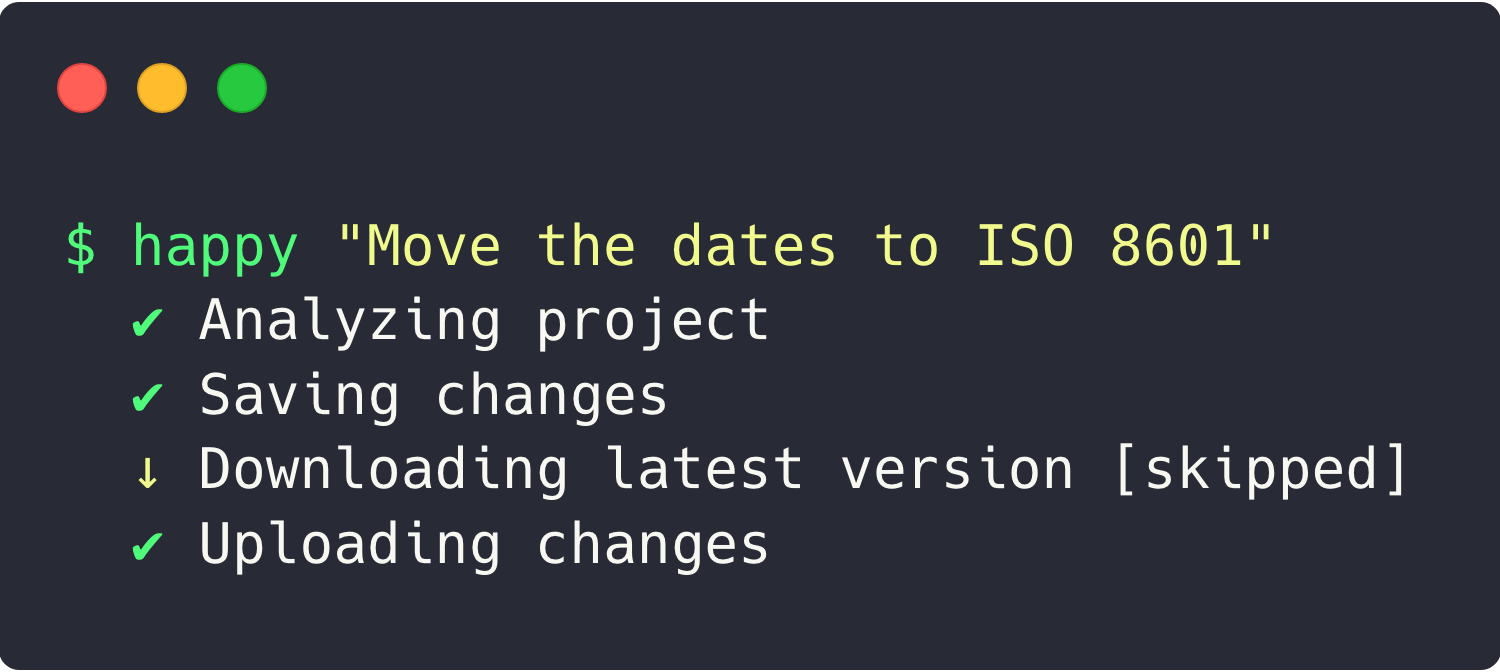
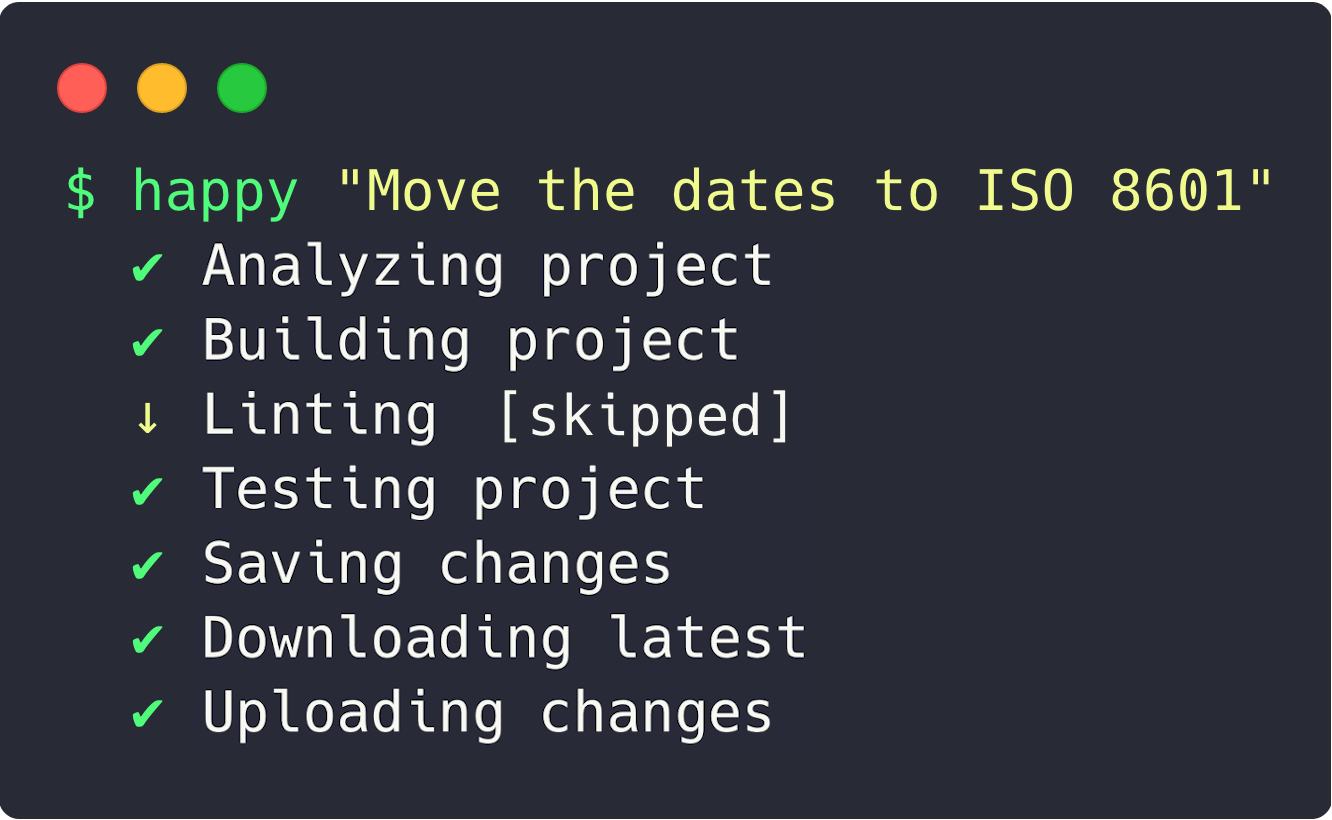
Updated image

diff --git a/index.js b/index.js
@@ -27,16 +27,22 @@ const cli = meow(
 
   Examples
     $ happy
-    ✔ Adding files
-    ✔ Committing changes
-    ✔ Pulling from master
-    ✔ Pushing
+    ✔ Analyzing project
+    ✔ Building project
+    ✔ Linting
+    ✔ Testing project
+    ✔ Saving changes
+    ✔ Downloading latest
+    ✔ Uploading changes
 
     $ happy "Move the dates to ISO 8601"
-    ✔ Adding files
-    ✔ Committing changes
-    ✔ Pulling from master
-    ✔ Pushing
+    ✔ Analyzing project
+    ✔ Building project
+    ✔ Linting
+    ✔ Testing project
+    ✔ Saving changes
+    ✔ Downloading latest
+    ✔ Uploading changes
 `,
   {
     flags: {

diff --git a/src/index.js b/src/index.js
@@ -5,7 +5,6 @@ const publish = require("./publish.js");
 const pull = require("./pull.js");
 const push = require("./push.js");
 const save = require("./save.js");
-const start = require("./start.js");
 const test = require("./test.js");
 
 module.exports = {
@@ -16,6 +15,5 @@ module.exports = {
   pull,
   push,
   save,
-  start,
   test
 };

diff --git a/src/test.js b/src/test.js
@@ -1,8 +1,6 @@
 const cmd = require("atocha");
 const { read } = require("files");
 
-let test = "jest";
-
 module.exports = cli => ({
   title: "Testing project",
   skip: async ctx => {

diff --git a/README.md b/README.md
@@ -35,45 +35,43 @@ $ happy --help
 
   Examples
     $ happy
-    ✔ Adding files
-    ✔ Committing changes
-    ✔ Pulling from master
-    ✔ Pushing
+    ✔ Analyzing project
+    ✔ Building project
+    ✔ Linting
+    ✔ Testing project
+    ✔ Saving changes
+    ✔ Downloading latest
+    ✔ Uploading changes
 
     $ happy "Move the dates to ISO 8601"
-    ✔ Adding files
-    ✔ Committing changes
-    ✔ Pulling from master
-    ✔ Pushing
+    ✔ Analyzing project
+    ✔ Building project
+    ✔ Linting
+    ✔ Testing project
+    ✔ Saving changes
+    ✔ Downloading latest
+    ✔ Uploading changes
 ```
 
 
 ## What it does
 
-These are roughly the equivalent commands:
+It makes sure your project is ready to deploy, and then deploy it. For this, these are the steps:
 
-```bash
-happy
+- "Analyzing project": it will read the `package.json` and gather some meta information about the current project used later.
+- "Building project": run `npm run build` *if* the `"build"` script is found in your `package.json`.
+- "Linting": run `npm run lint` *if* the `"lint"` script is found in the project `package.json`.
+- "Testing project": run `npm test` *if* the `"test"` script is found in the project `package.json`.
+- "Saving changes": add all of the files with git, equivalent to `git add . && git commit -m "Saved on $TIME"`. Provide a message for a custom git message.
+- "Downloading latest": git pull
+- "Uploading changes": git push
+- "Publish to npm": _only_ if the `--publish` flag is passed, publish it to npm.
 
-# Similar to
-
-git add . -A
-git commit -m "Saved on ${time()}"
-git pull origin master
-git push
-```
 
 Run it with a string to use it as a commit string:
 
 ```bash
 happy "Added that new cool feature"
-
-# Similar to
-
-git add . -A
-git commit -m "Added that new cool feature"
-git pull origin master
-git push
 ```
 
 Add a `--publish VERSION` flag to publish the current package to npm with [np](https://github.com/sindresorhus/np#readme):
